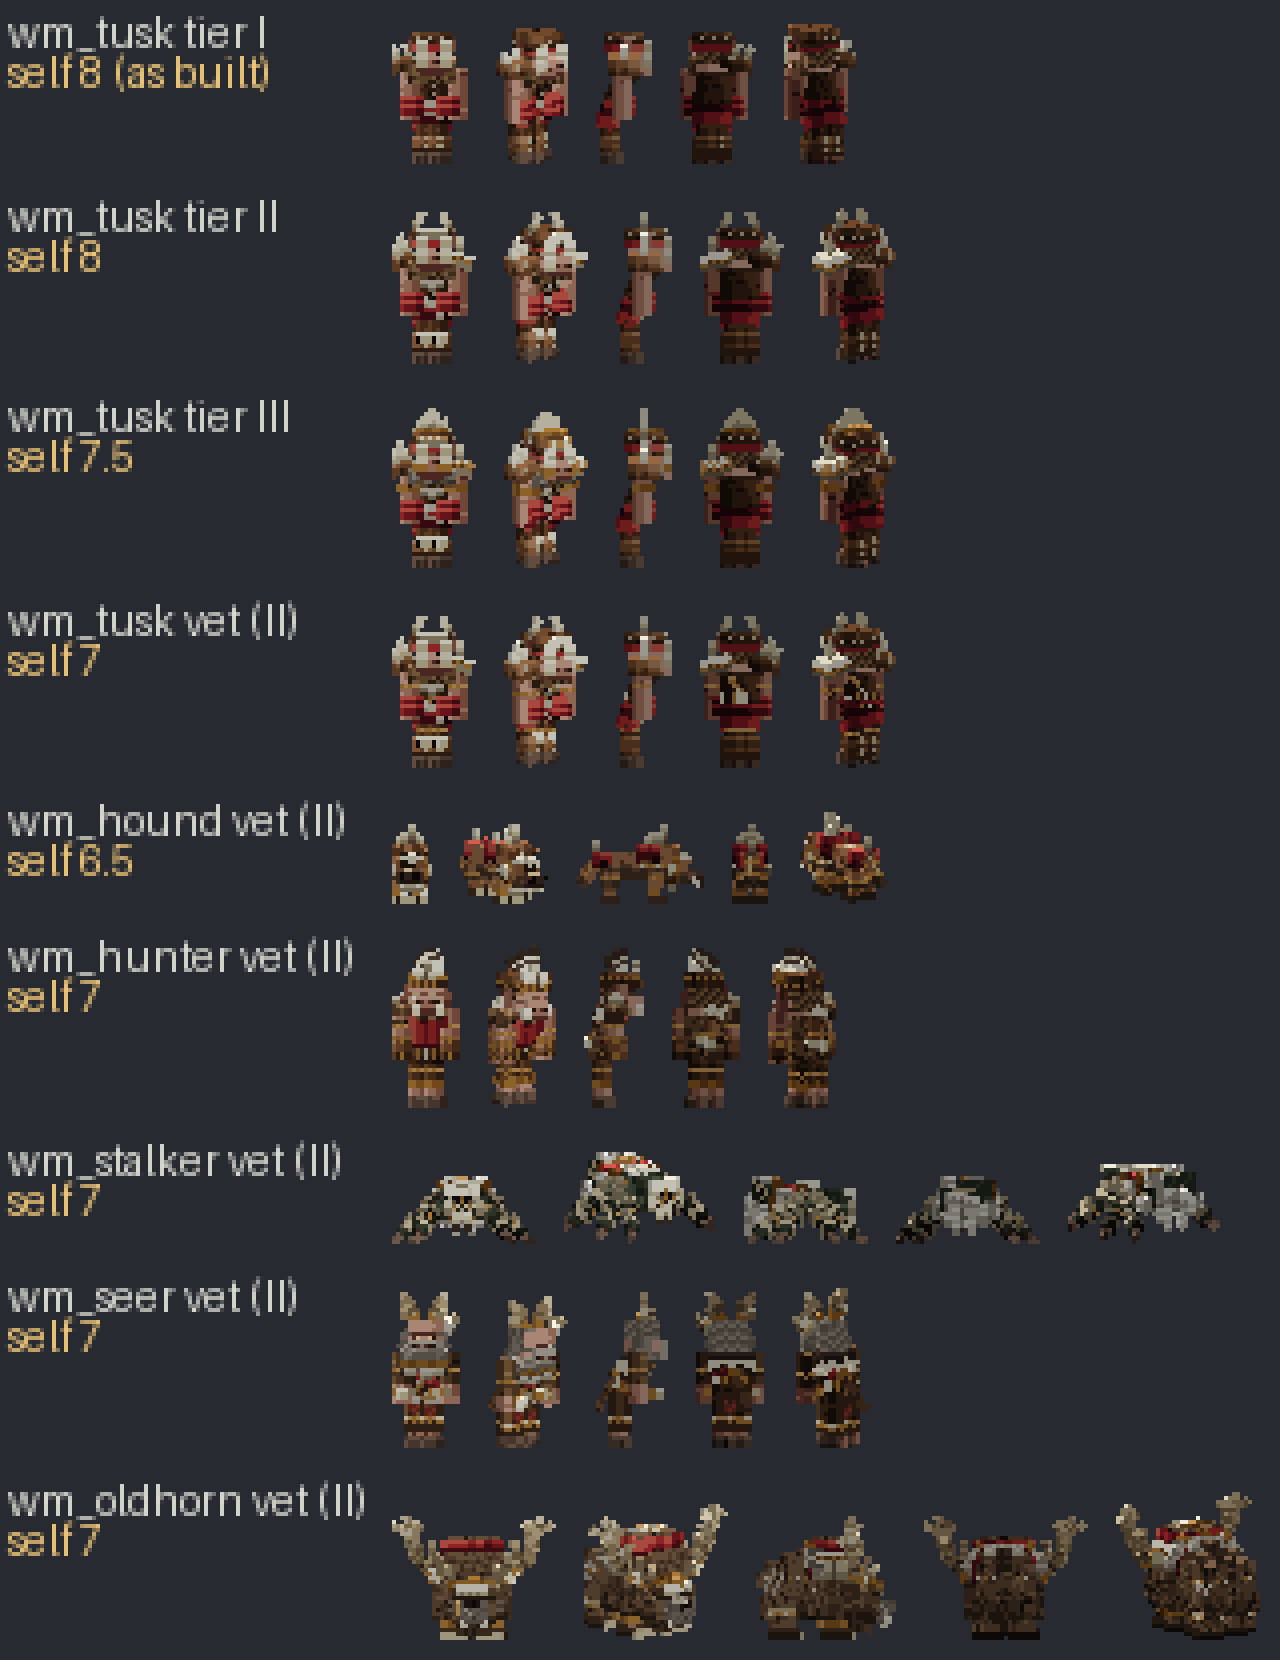
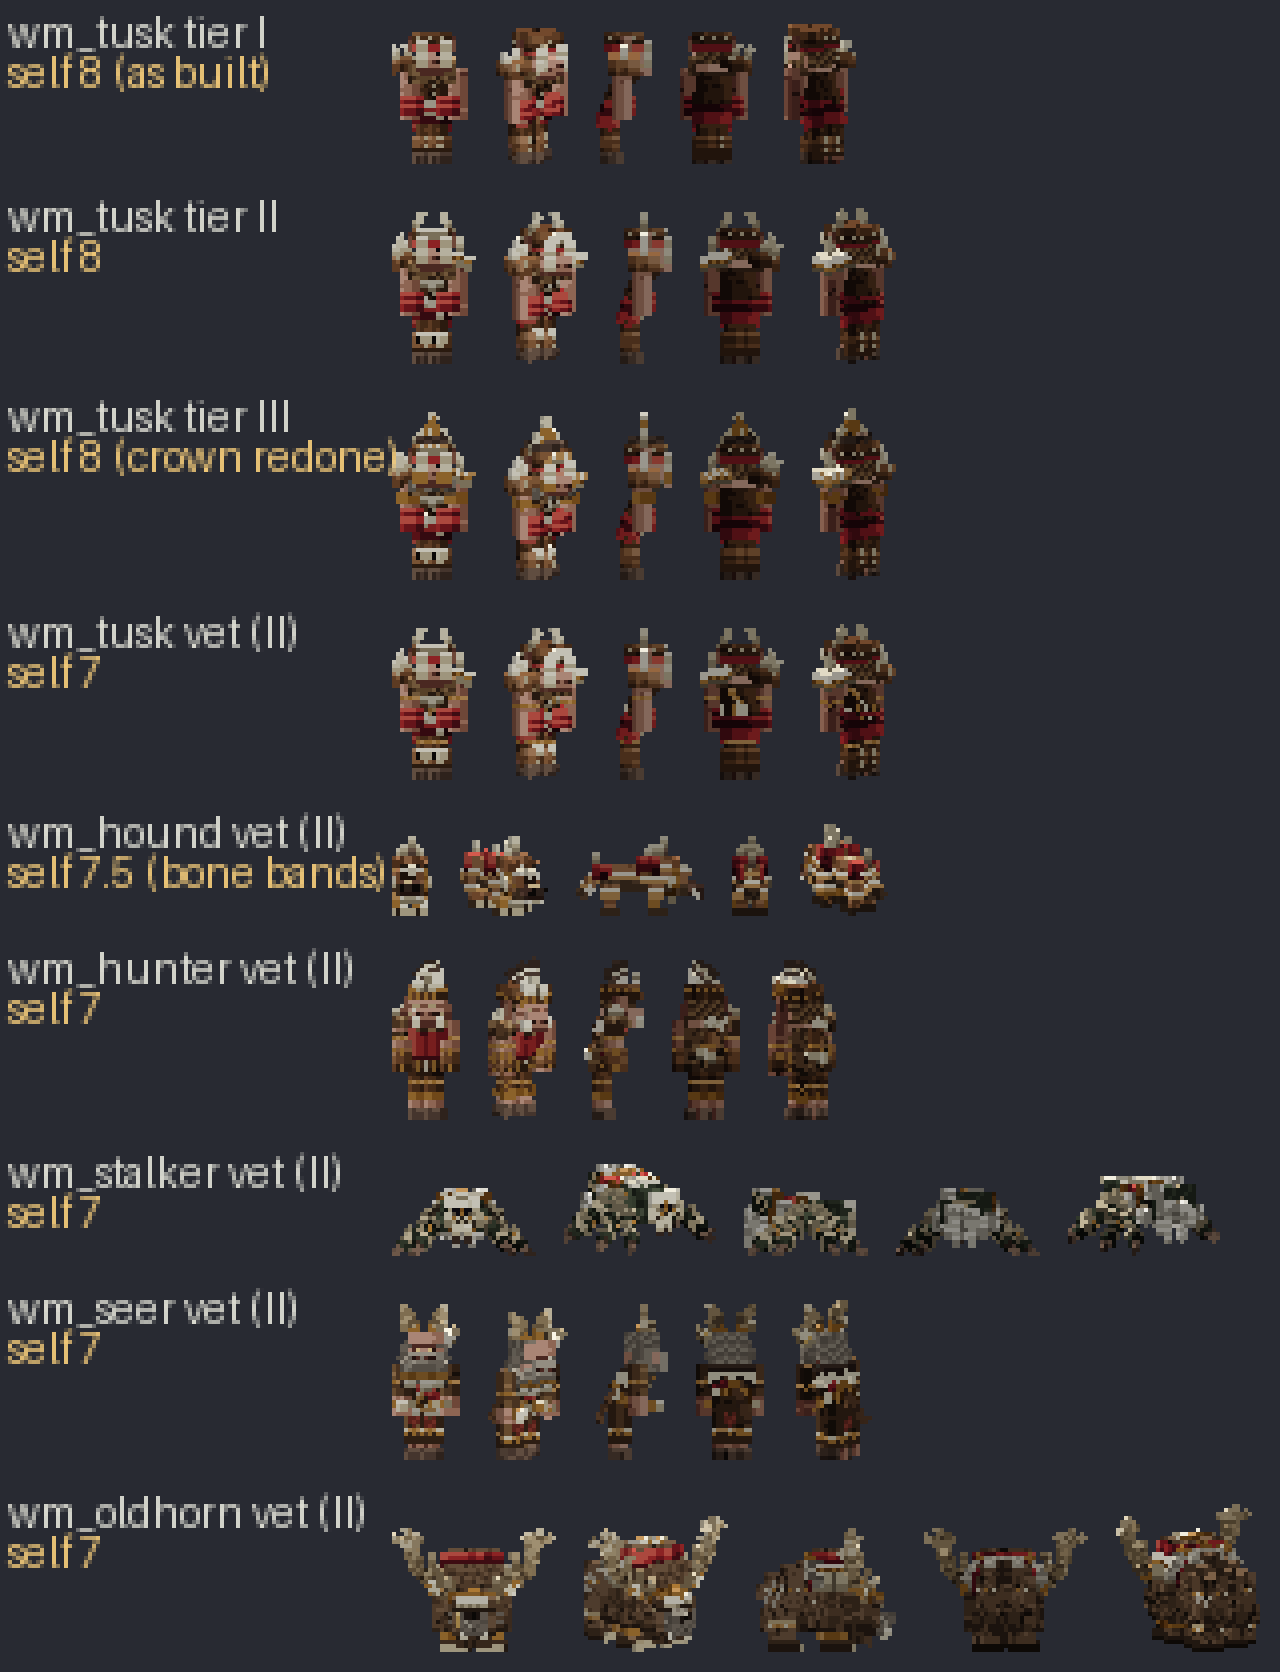
Refresh Wildmoot Tusk and trims sheet with second-round self-scores

diff --git a/work/wildmoot_tusk_trims_sheet.py b/work/wildmoot_tusk_trims_sheet.py
@@ -8,7 +8,7 @@ import render
 IDS = ["wm_tusk", "wm_hound", "wm_hunter", "wm_stalker", "wm_seer", "wm_oldhorn"]
 VIEWS = [(0, 0), (-35, 12), (-90, 0), (180, 0), (145, 12)]
 # self-scores out of 10, set by the artist after reading the sheet
-SCORES = {"wm_tusk tier I": "8 (as built)", "wm_tusk tier II": "8", "wm_tusk tier III": "7.5", "wm_tusk vet (II)": "7", "wm_hound vet (II)": "6.5", "wm_hunter vet (II)": "7", "wm_stalker vet (II)": "7", "wm_seer vet (II)": "7", "wm_oldhorn vet (II)": "7"}
+SCORES = {"wm_tusk tier I": "8 (as built)", "wm_tusk tier II": "8", "wm_tusk tier III": "8 (crown redone)", "wm_tusk vet (II)": "7", "wm_hound vet (II)": "7.5 (bone bands)", "wm_hunter vet (II)": "7", "wm_stalker vet (II)": "7", "wm_seer vet (II)": "7", "wm_oldhorn vet (II)": "7"}
 side = sys.argv[1] if len(sys.argv) > 1 else "crimson"
 dst = sys.argv[2] if len(sys.argv) > 2 else os.path.join(ROOT, "work", "wildmoot-tusk-trims-4x.png")
 rows, labels = [], []
